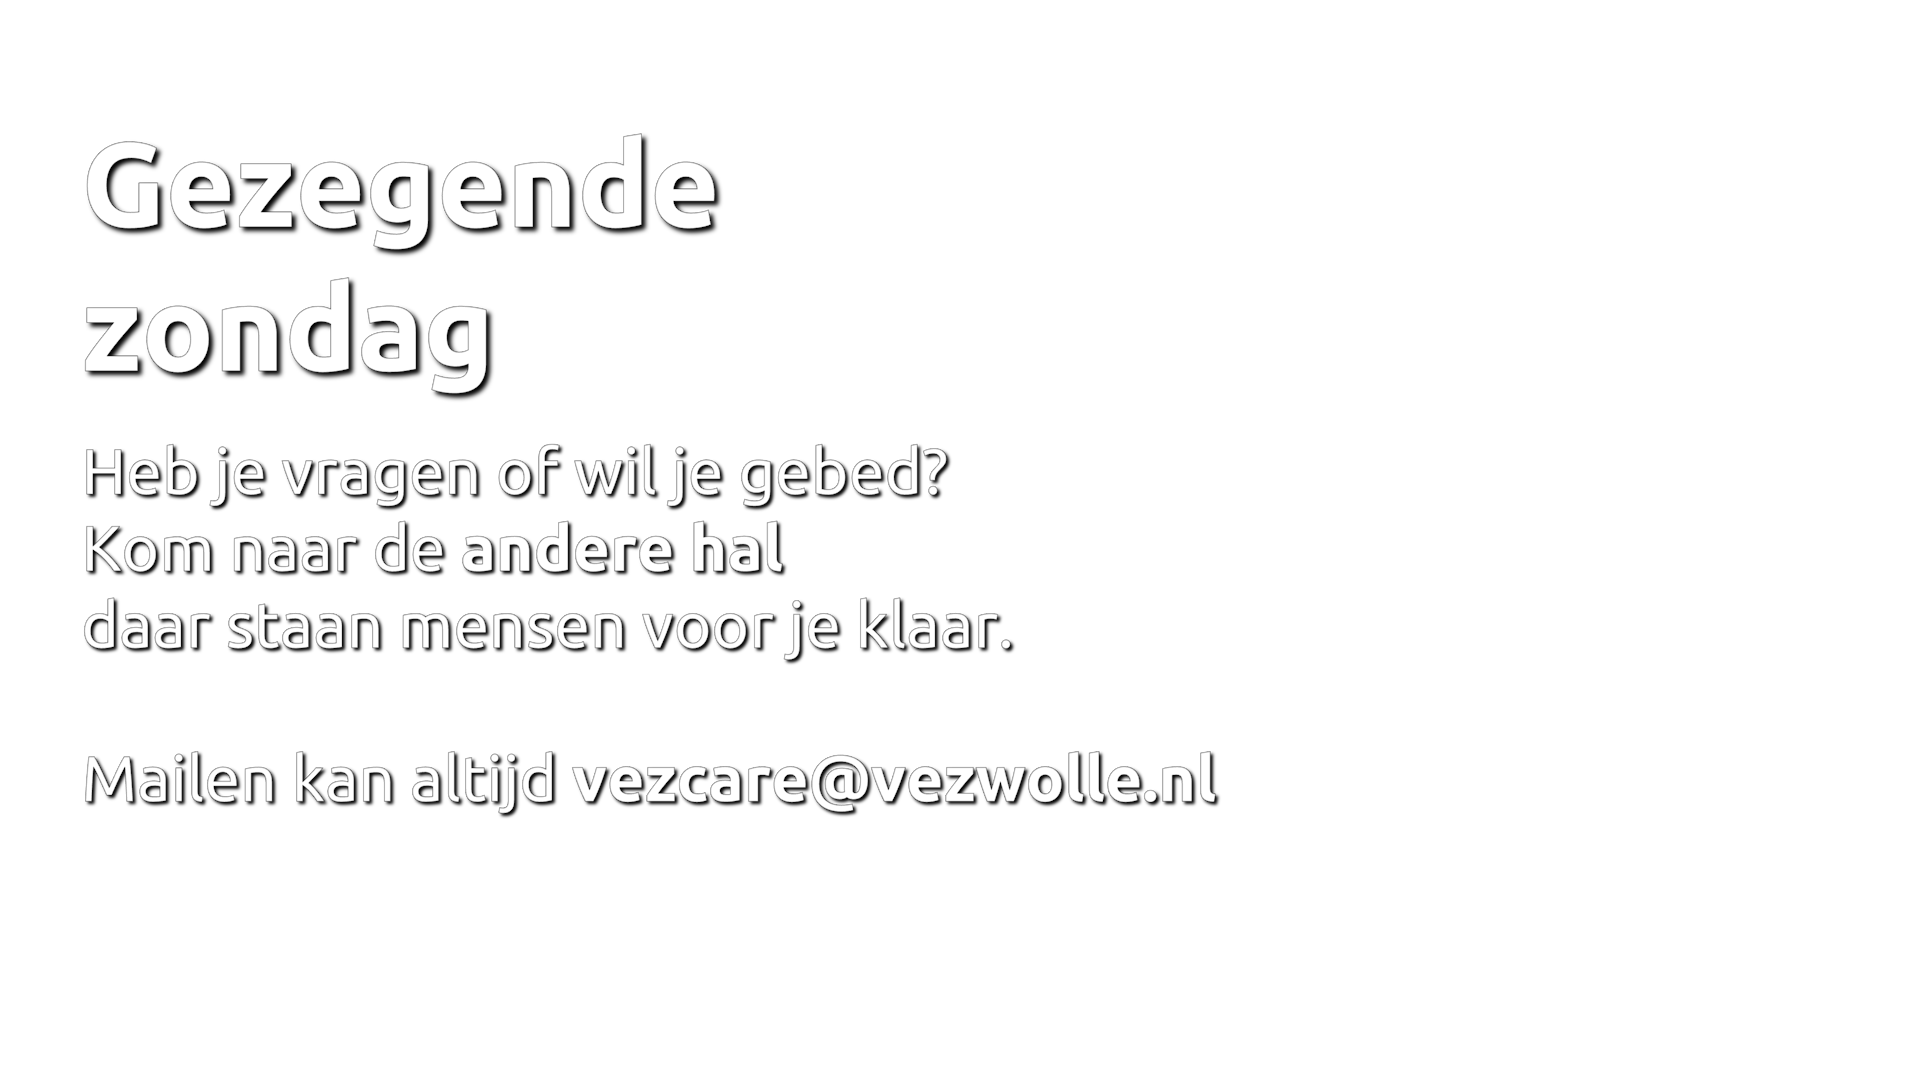
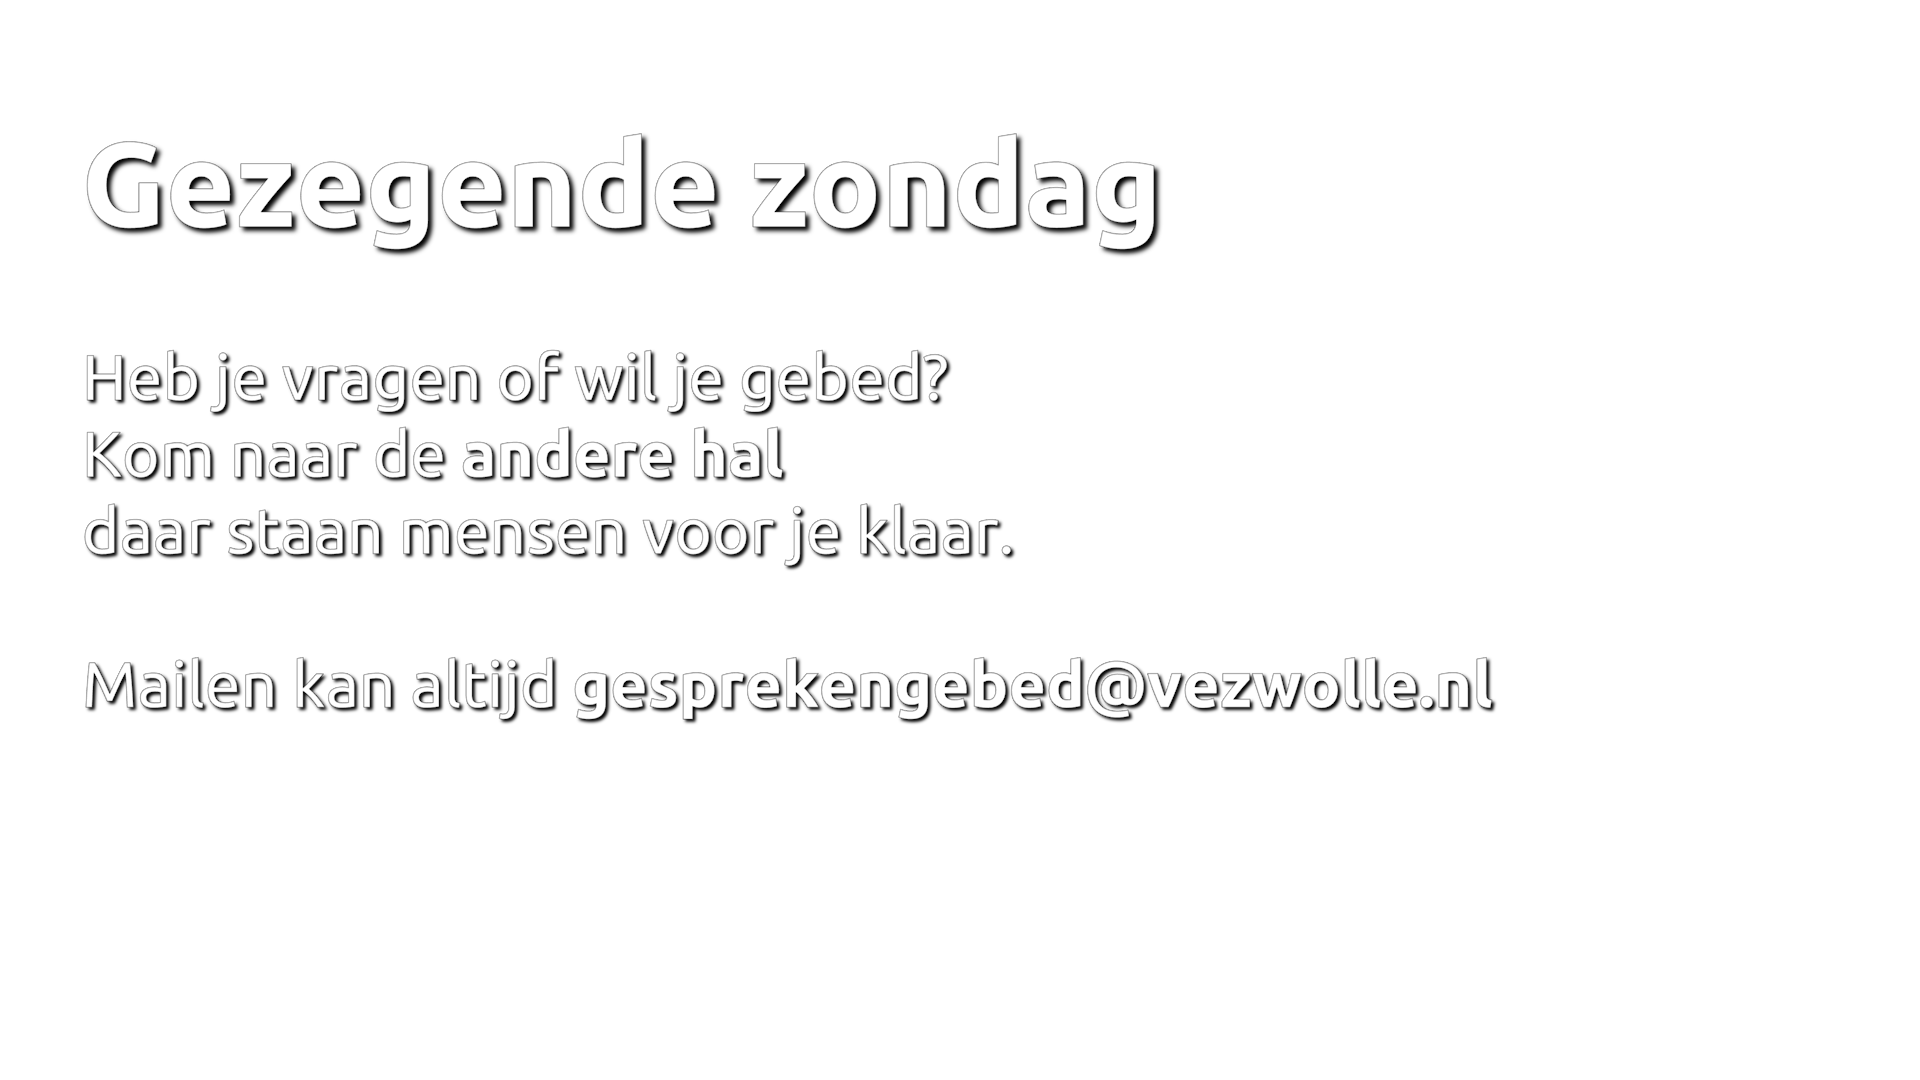
nazorg -> gebed en gesprek

Changed region(s): [[0.0312, 0.275, 0.7812, 0.6722], [0.0312, 0.7028, 0.6562, 0.7639], [0.375, 0.1222, 0.625, 0.2444]]

diff --git a/src/components/help/HelpMain.vue b/src/components/help/HelpMain.vue
@@ -38,7 +38,7 @@
           <li>Er kunnen verschillende afbeeldingen voor beamer & livestream worden gebruikt.</li>
           <li>Bij PNG bestanden wordt de transparantie uit de afbeelding meegenomen.</li>
           <li>Via de geavanceerde opties kan de afbeelding verschaald, gedraaid & verplaatst worden.</li>
-          <li>Standaard zijn de sheets voor de collecte, nazorg en einde dienst aanwezig.</li>
+          <li>Standaard zijn de sheets voor de collecte, gebed en gesprek en einde dienst aanwezig.</li>
         </ul>
       </li>
       <li>
@@ -83,7 +83,7 @@
       Bij de web-app is de monitor keuze niet aanwezig; hier zijn 3 knoppen aanwezig <img src="../../assets/help/buttonoutput.png"> om het uitvoerscherm van de beamer, de livestream & de stageweergave te tonen in een nieuw browser venster.
     </li>
     <li>
-      In de desktop app kan je een eigen standaard achtergrond & standaard collecte/nazorg en einde dienst afbeeldingen instellen.
+      In de desktop app kan je een eigen standaard achtergrond & standaard collecte/gebed en gesprek en einde dienst afbeeldingen instellen.
     </li>
     <li>
       De PCO live weergave kan je starten met de knop <img src="../../assets/help/pcolive.png"> , met de rechter muisknop op deze knop kan je dit scherm ook leeg maken of een andere live dienst uit PCO kiezen via de id.

diff --git a/src/components/help/HelpLive.vue b/src/components/help/HelpLive.vue
@@ -68,7 +68,7 @@
       In de preview kolom kan je door de verschillende pagina's heen klikken (of na 1x aan klikken met de pijltjes toetsen doorlopen). Om zo onder in het scherm het voorbeeld te bekijken.<br>
       De geselecteerde pagina in de preview wordt na op de knop <img src="../../assets/help/golive.png"> klikken direct live gezet; Dit kan ook door te dubbelklikken op deze pagina/tekst. Wanneer er niets is geselecteerd wordt de 1e pagina van dat onderdeel live gezet na het klikken op de knop "Go Live".<br>
       Nadat een onderdeel naar live is verplaatst wordt automatisch het volgende onderdeel uit de setlist in de preview geplaatst.<br>
-      Door met de rechter muisknop op "Go Live" te klikken verschijnt er een Quick Live menu; <img src="../../assets/help/quickliverightkey.png"> hierin staat een aantal vaste onderdelen uit de dienst die je direct live kan zetten zoals de nazorg pagina en de collecte pagina.
+      Door met de rechter muisknop op "Go Live" te klikken verschijnt er een Quick Live menu; <img src="../../assets/help/quickliverightkey.png"> hierin staat een aantal vaste onderdelen uit de dienst die je direct live kan zetten zoals de gebed en gesprek pagina en de collecte pagina.
     </p>
     <div class="text-h6 q-mb-md">
       Rechter kolom: live

diff --git a/src/components/presentation-presets.js b/src/components/presentation-presets.js
@@ -27,13 +27,13 @@ export default [
     id: 'ministry',
     type: 'image',
     settings: {
-      title: 'Nazorg',
+      title: 'Gebed en gesprek',
       beamer: {
-        fileId: '/images/nazorgbeamer.png',
+        fileId: '/images/ministrybeamer.png',
         ...imageDefaults
       },
       livestream: {
-        fileId: '/images/nazorglivestream.png',
+        fileId: '/images/ministrylivestream.png',
         ...imageDefaults
       }
     }

diff --git a/src/components/help/HelpMainSetlist.vue b/src/components/help/HelpMainSetlist.vue
@@ -43,7 +43,7 @@
         Onderstaande onderdelen worden standaard toegevoegd aan de dienst.
         <ul>
           <li>Collecte</li>
-          <li>Nazorg</li>
+          <li>Gebed en gesprek</li>
           <li>Einde dienst / gezegende zondag</li>
         </ul>
       </li>

diff --git a/src/components/presets-settings.js b/src/components/presets-settings.js
@@ -71,7 +71,7 @@ export const imageFiles = [
   },
   {
     name: 'ministry',
-    label: 'Nazorg',
+    label: 'Gebed en gesprek',
     beamer: {
       ...fileDefaults
     },
